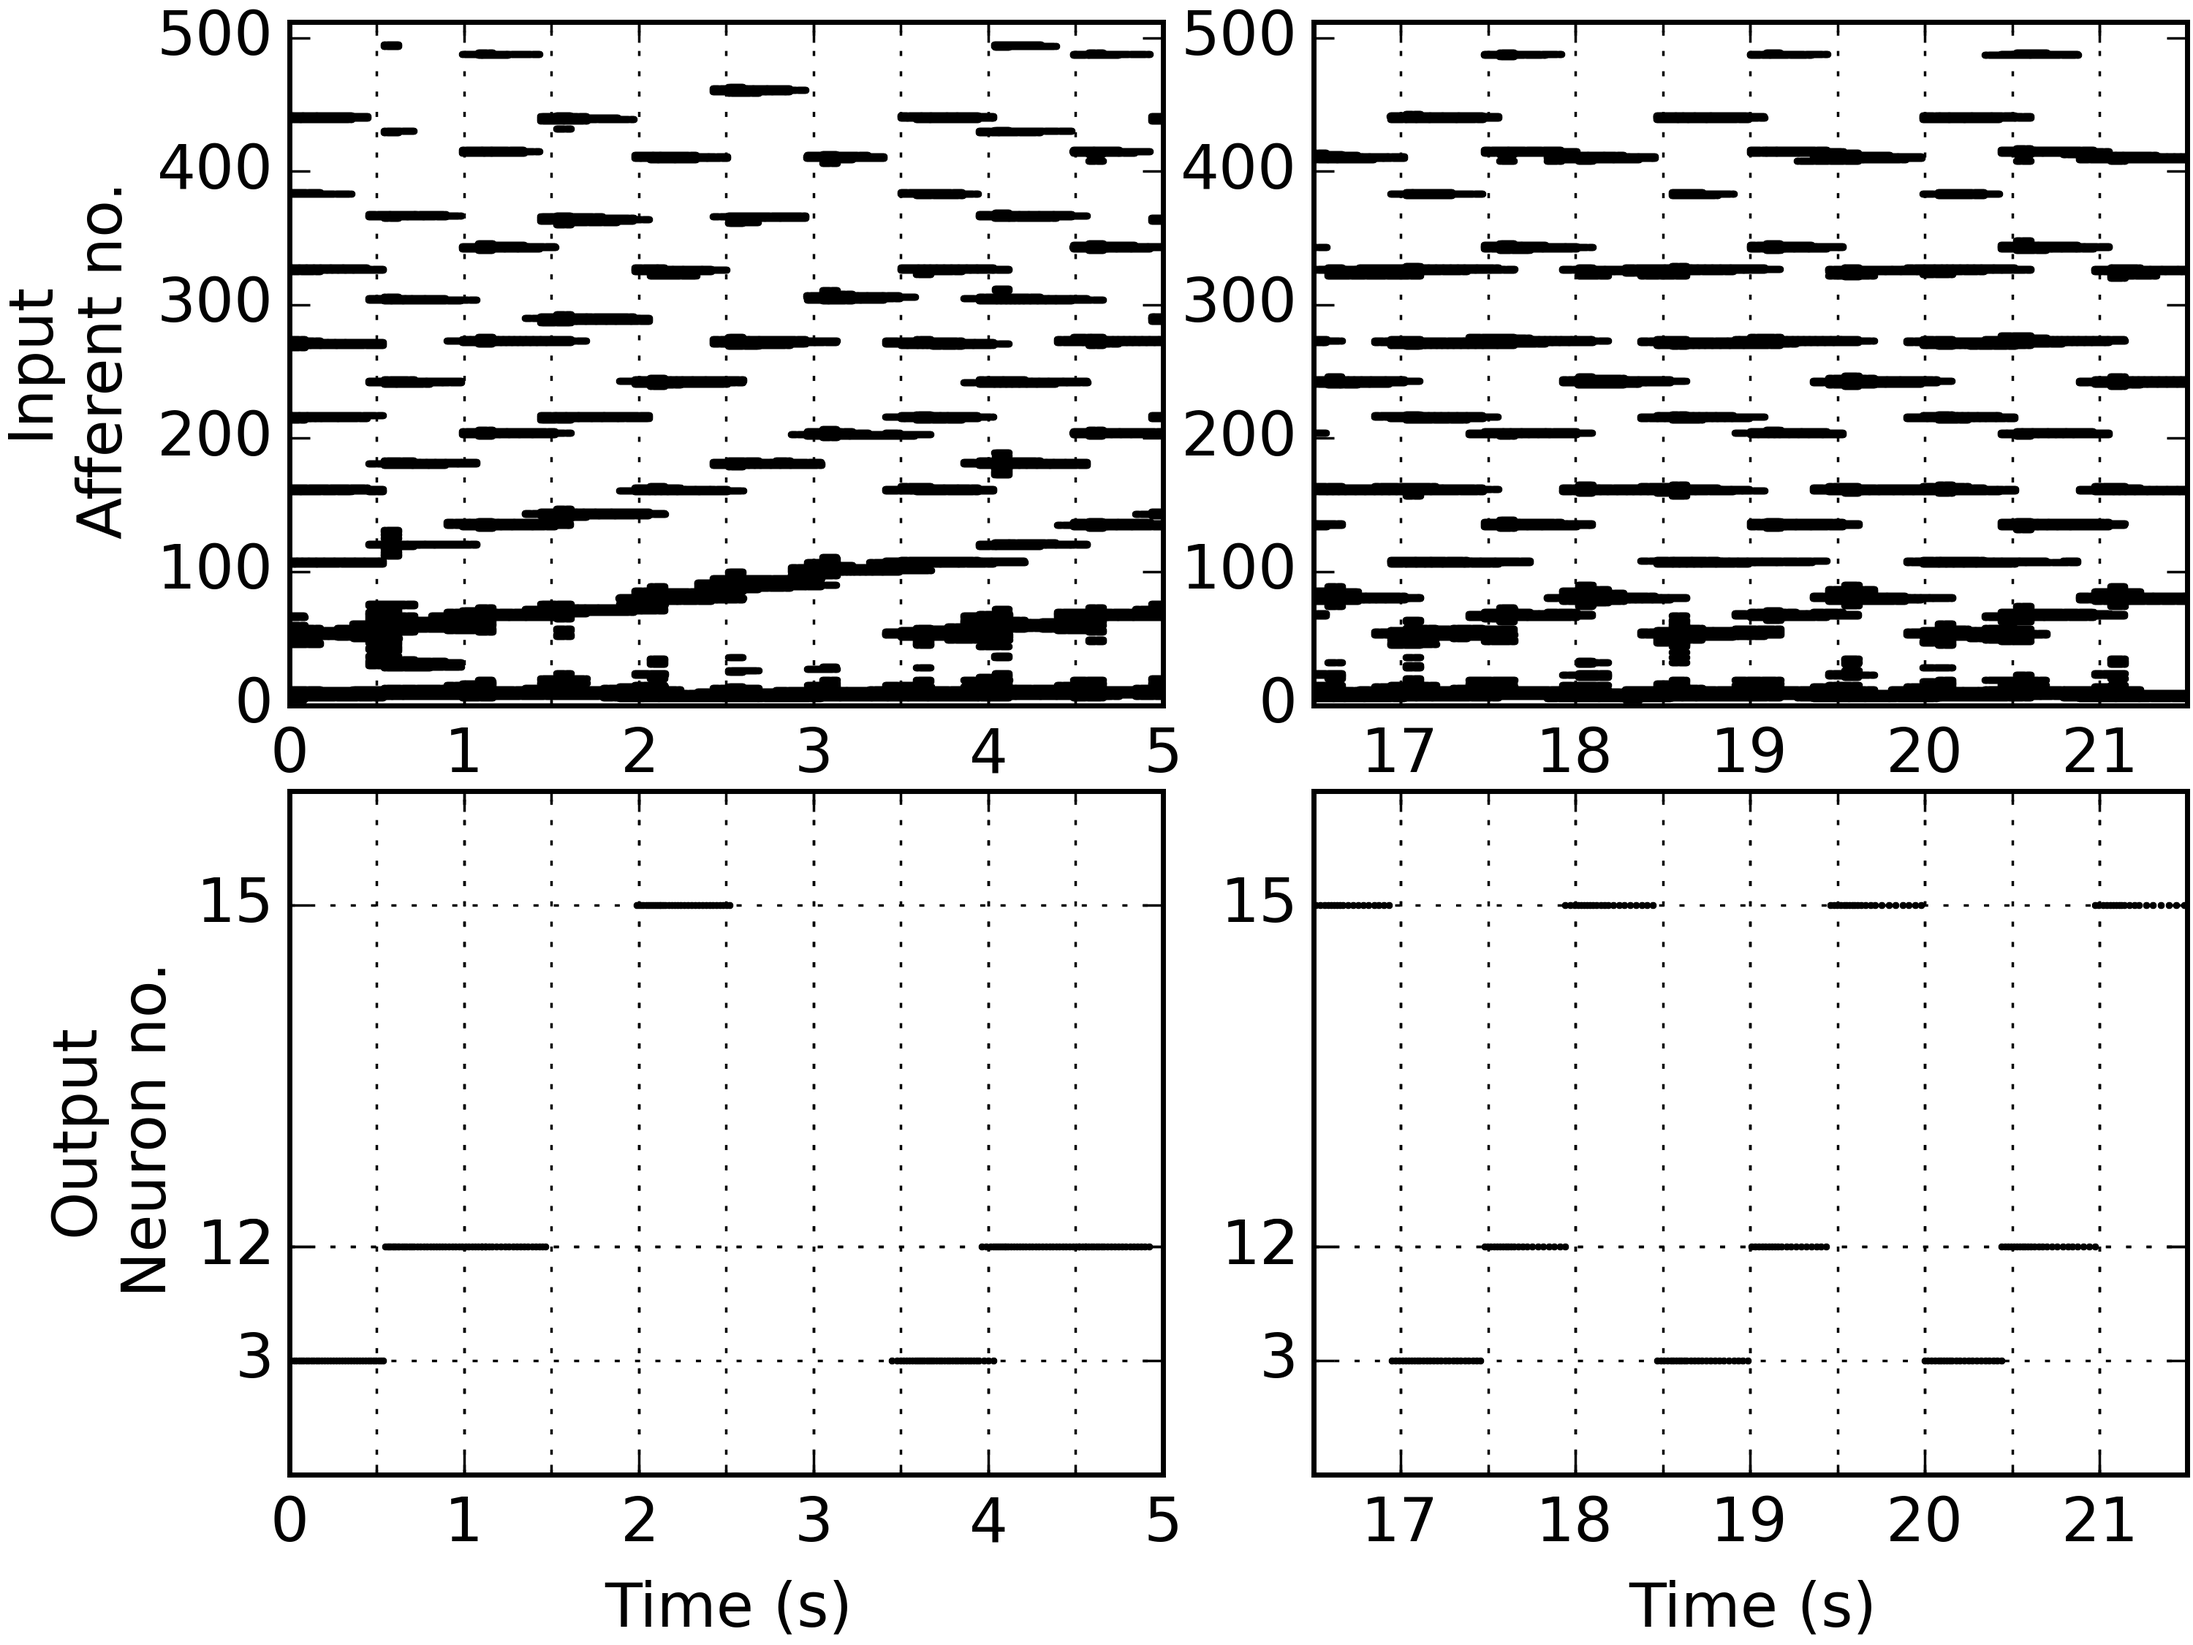
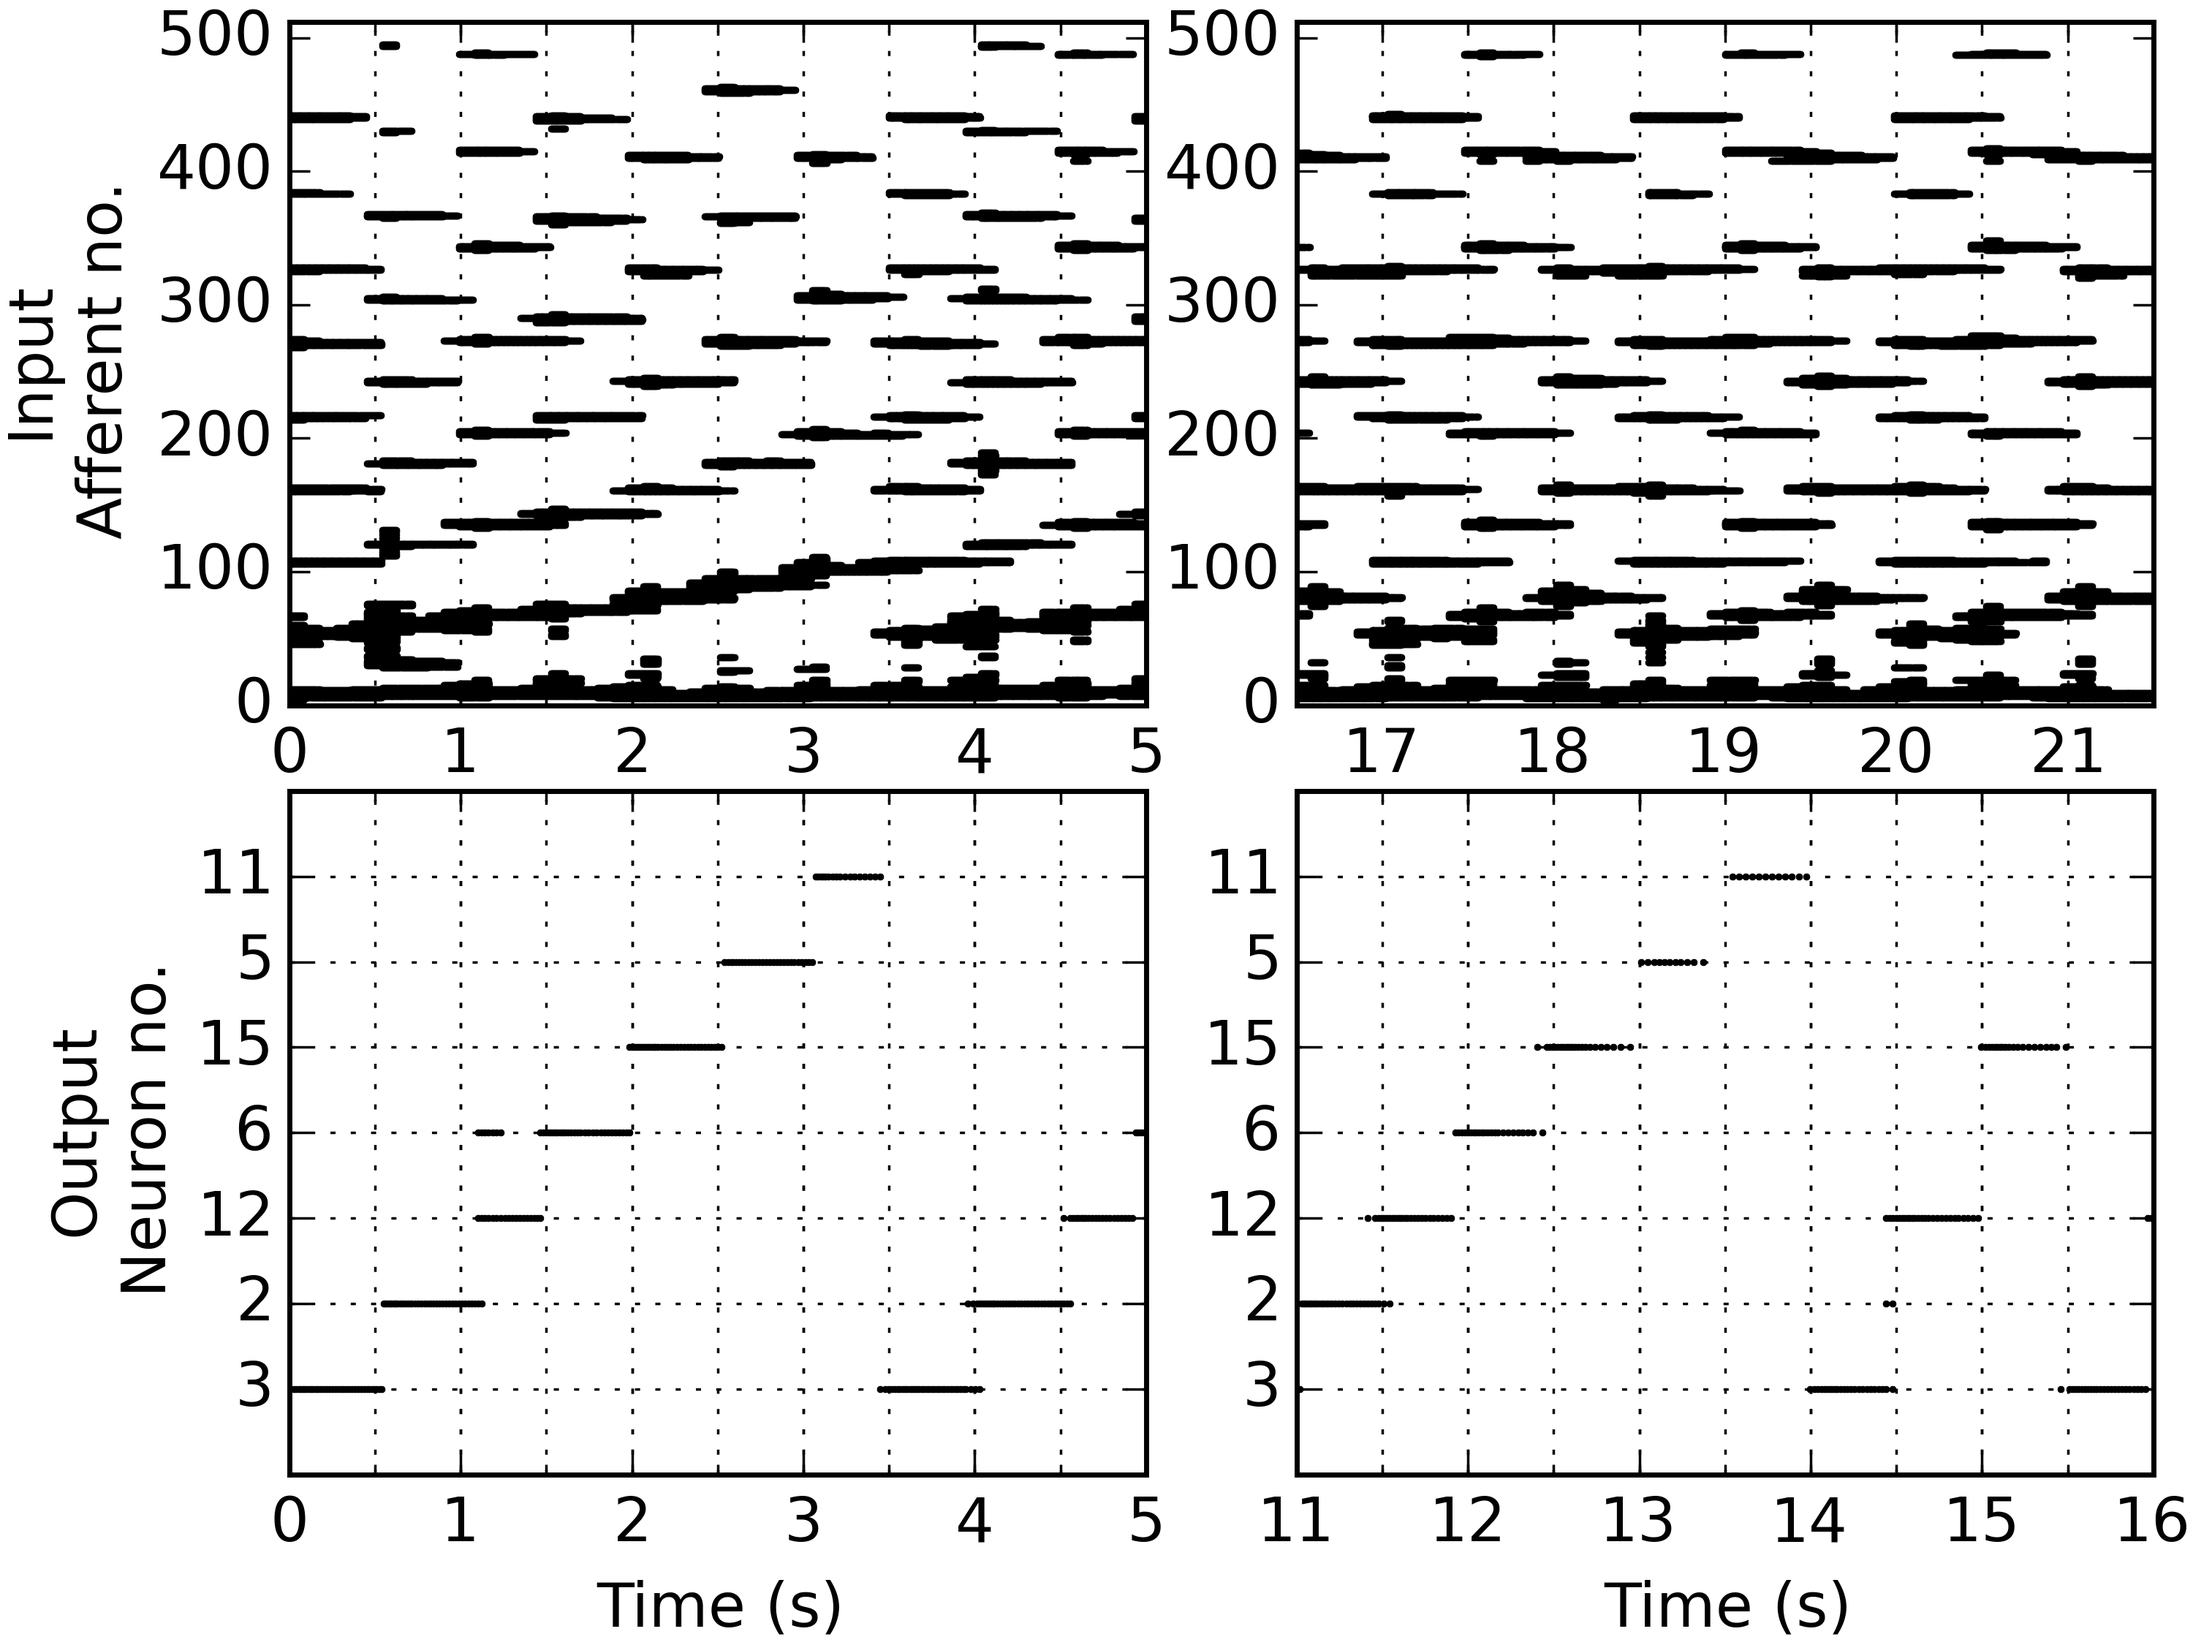
Add final input/output spike trains

diff --git a/graph_spike_trains.py b/graph_spike_trains.py
@@ -47,13 +47,20 @@ plt.plot(input_spike_times, input_spike_indices, 'k.', markersize=2)
 max_time = np.amax(input_spike_times)
 plt.xlim([max_time-5, max_time])
 
+if 'scale-three_notes' in args.pickle_file:
+    from_time = 5
+    to_time = 12
+else:
+    from_time = max_time/2
+    to_time = max_time
 # output spikes
 favourite_notes = utils.analyse_note_responses(
     output_spike_indices,
     output_spike_times,
     note_length,
     n_notes,
-    from_time=max_time/2
+    from_time=from_time,
+    to_time=to_time
 )
 plt.subplot(2, 2, 3)
 utils.ordered_spike_raster(output_spike_indices, output_spike_times,
@@ -62,7 +69,10 @@ plt.xlim([0, 5])
 plt.subplot(2, 2, 4)
 utils.ordered_spike_raster(output_spike_indices, output_spike_times,
                            favourite_notes)
-plt.xlim([max_time-5, max_time])
+if 'scale-three_notes' in args.pickle_file:
+    plt.xlim([11, 16])
+else:
+    plt.xlim([max_time-5, max_time])
 
 for i in [1, 2, 3, 4]:
     plt.subplot(2, 2, i)
